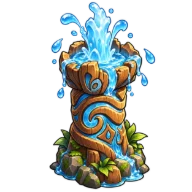
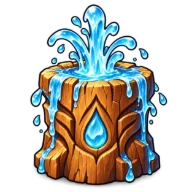
샘 토템을 판 위 물건으로: 스킬 아이콘과 같은 그림, 칸 가운데 이름·체력 뒤 (#157)
* 샘 토템을 판 위 물건으로: 스킬 아이콘과 같은 그림, 사람 칸은 직업 아이콘 자리

- board-totem-spring을 스킬 아이콘(나무 그루터기 분수)과 같은 토템으로 다시 그림 (Codex, 192px)
- 새 층 standL: 이름·체력·배지 위, 말풍선·떠오르는 숫자·스킬 이펙트 아래. 서 있는 동안만, 끝나기 2초 전 깜빡임, 세울 때 솟아오름
- 사람이 선 칸은 직업 아이콘 자리에 토템 (이름·체력을 가리지 않음). 디버프 배지가 그 자리를 쓰면 배지 옆 · 작은 칸은 체력 옆, 빈 칸은 크게
- 작은 칸 조준 표식은 디버프 배지 때처럼 토템 옆으로
- 칸 바닥의 돌 토템 그림(ui-class-board-totem-spring)은 판에서 안 씀, 바닥 색은 그대로

* 샘 토템: 칸 가운데 고정, 이름·체력 뒤 (직업 칸 색 위) 크게

Lim: 토템 위치는 고정, 이름 및 체력 뒤로 (직업 칸 색 위에) 가운데 크게, 캐릭터가 이동해도 그 자리.
- standL을 파티원 칸 채움(unitsG) 바로 위로 옮김: 직업 아이콘·이름·체력·배지·이펙트가 그 위
- 토템은 늘 그 칸 가운데 (사람 위치를 따라가지 않음), 칸 안에 꽉 차게 (그림 한 변 1.5r)
- 직업 아이콘 자리 · 빈자리 찾기 · 조준 표식 옮기기는 되돌림

---------

diff --git a/src/battle/board.ts b/src/battle/board.ts
@@ -62,6 +62,8 @@ const cv = $('board') as HTMLCanvasElement;
 const root = new Container();
 const cellsG = new Graphics();
 const unitsG = new Graphics();
+/** 칸 위에 선 물건 (주술사 샘 토템, 2026-10-16 Lim): 칸 가운데 고정, 파티원 칸 채움 (직업 색) 위 · 직업 아이콘 · 이름 · 체력 · 배지 · 이펙트 아래 */
+const standL = new Container();
 const glowL = new Container();
 const fxG = new Graphics();
 const frameL = new Container();
@@ -84,7 +86,7 @@ const markL = new Container();
 /** 말풍선 그림 (43 5장): 틀 뒤 이펙트 띠 · 틀 9조각 · 꼬리·감정 아이콘·앞 이펙트 띠. 대사 글자(topL)는 그 위 */
 const bubbleL = new Container(), bubbleBackL = new Container(), sliceL = new Container(), bubbleFrontL = new Container();
 bubbleL.addChild(bubbleBackL, sliceL, bubbleFrontL);
-root.addChild(cellsG, decalL, unitsG, glowL, fxG, fxArtL, frameL, overG, markL, emblemL, labelsL, badgeG, badgeL, topG, bubbleL, topL, lensL, pxfL);
+root.addChild(cellsG, decalL, unitsG, standL, glowL, fxG, fxArtL, frameL, overG, markL, emblemL, labelsL, badgeG, badgeL, topG, bubbleL, topL, lensL, pxfL);
 
 let dpr = 1;
 /** 판 그림 좌표 (Pixi root 안). k = 그림 → 화면 배율: 보통 1, 「레이드 판 5인 던전 모양」이면 1보다 작음 (화면 좌표 = 그림 좌표 × k) */
@@ -495,7 +497,7 @@ class SpritePool {
   }
   end(): void { for (let i = this.used; i < this.list.length; i++) this.list[i].visible = false; }
 }
-const decals = new SpritePool(decalL), fxArt = new SpritePool(fxArtL), marks = new SpritePool(markL), pxfArt = new SpritePool(pxfL), bubbleBack = new SpritePool(bubbleBackL), bubbleFront = new SpritePool(bubbleFrontL);
+const decals = new SpritePool(decalL), fxArt = new SpritePool(fxArtL), marks = new SpritePool(markL), stands = new SpritePool(standL), pxfArt = new SpritePool(pxfL), bubbleBack = new SpritePool(bubbleBackL), bubbleFront = new SpritePool(bubbleFrontL);
 /** 생명 사슬 띠 (fx-link-*): 가로로 이어 붙이는 그림을 두 칸 사이에 깔아 돌림 */
 const strips: TilingSprite[] = [];
 let stripUsed = 0;
@@ -1127,18 +1129,21 @@ export function lensAt(idx: number, now: number): void { B2.lens = { idx, t0: no
 const HOT_COLOR: Record<string, number> = { sprout: 0x7bc67e, growth: 0xb7e07a, wildflower: 0xe59ac0, oath: 0xf0c46a, bloom: 0xf3c7d6, lightWave: 0xffe7a3, droplet: 0x7ec8f0, wanderMist: 0x6fd0b0, starMark: 0xe8b04a };
 /**
  * 판 위 물건 (79 6-1, engine/totems): 칸 바닥 색 · 그림 이름 (80 5장 board-*, 오기 전엔 바닥 색 + 안쪽 테두리). 범위 = 테두리를 그릴 거리
+ * stand = 바닥 무늬가 아니라 칸 위에 선 물건 (standL): 사람이 서 있어도 그 칸 가운데에 크게, 이름 · 체력 뒤. 샘 토템 = 스킬 아이콘과 같은 나무 그루터기 분수 (2026-10-16)
  */
-const TOTEM_LOOK: Record<TotemKind, { color: number; art: string; label: string }> = {
-  spring: { color: 0x7ec8f0, art: 'ui-class-board-totem-spring', label: '샘' },
+const TOTEM_LOOK: Record<TotemKind, { color: number; art: string; label: string; stand?: boolean }> = {
+  spring: { color: 0x7ec8f0, art: 'board-totem-spring', label: '샘', stand: true },
   earth: { color: 0xc49a62, art: 'ui-class-board-totem-earth', label: '대지' },
   sea: { color: 0x4fa8e0, art: 'board-sea-spring', label: '바다' },
   mist: { color: 0x6fd0b0, art: 'board-mist-pool', label: '안개' },
   citadel: { color: 0xe6d3a0, art: 'board-citadel', label: '성채' },
   nova: { color: 0xd19a5e, art: 'board-supernova', label: '별' },
 };
+/** 선 물건 그림 한 변 (칸 반지름 배) · 그 안에서 그려진 부분 (폭 · 높이 비율, board-totem-spring 납품본을 잼): 그려진 부분이 칸 안에 꽉 차게 */
+const STAND_SIZE = 1.5, STAND_W = 0.72, STAND_H = 0.95;
 /** 힐러 직업 4종 판 위 그림 (80 5장): 전투 시작 때 그 직업 것만 미리 읽음 (첫 토템 · 인장부터 보이게) */
 const HERO_BOARD_ART: Partial<Record<HeroKey, string[]>> = {
-  shaman: ['ui-class-board-totem-spring', 'ui-class-board-totem-earth', 'board-totem-rain', 'board-sea-spring'],
+  shaman: ['board-totem-spring', 'ui-class-board-totem-earth', 'board-totem-rain', 'board-sea-spring'],
   monk: ['board-mist', 'board-mist-pool'],
   astrologer: ['board-star', 'board-star-mark', 'board-star-sleep', 'board-supernova'],
   warder: ['board-seal', 'board-barrier', 'board-citadel'],
@@ -1306,7 +1311,7 @@ export function render(now: number): void {
   const typography = cellTypography(s), compact = typography.compact;
   const rdt = Math.min(0.1, Math.max(0, (now - (B2.lastRender || now)) / 1000)); B2.lastRender = now;
   for (const g of [cellsG, unitsG, fxG, overG, badgeG, topG]) g.clear();
-  labels.begin(); badgeLabels.begin(); tops.begin(); glowUsed = 0; hexFramesUsed = 0; decorationBounds.length = 0; decals.begin(); fxArt.begin(); marks.begin(); pxfArt.begin(); stripUsed = 0;
+  labels.begin(); badgeLabels.begin(); tops.begin(); glowUsed = 0; hexFramesUsed = 0; decorationBounds.length = 0; decals.begin(); fxArt.begin(); marks.begin(); stands.begin(); pxfArt.begin(); stripUsed = 0;
   bubbleBack.begin(); bubbleFront.begin(); sliceUsed = 0;
   telsSeen = F.tels.slice(); // 다음 impact 사건이 어느 기술인지 (fxImpact)
   const fs = (k: number, min: number) => Math.max(min, s * k);
@@ -1396,7 +1401,13 @@ export function render(now: number): void {
     for (const tm of F.totems) if (tm.cell === i) {
       const look = TOTEM_LOOK[tm.kind], end = tm.until - F.t < 2, tex = artTexture(look.art);
       hexPoly(cellsG, p.x, p.y, r).fill({ color: look.color, alpha: end ? 0.08 + 0.14 * pulse : 0.22 });
-      if (tex) decals.put(tex, p.x, p.y, cellArt, cellArt, end ? 0.5 + 0.5 * pulse : 1);
+      if (tex && look.stand) {
+        // 선 물건 (2026-10-16 Lim 「토템 위치는 고정, 이름 · 체력 뒤 직업 칸 색 위에 가운데 크게, 캐릭터가 이동해도 그 자리」): 칸 가운데, 세울 때 0.25초 솟아오름 (바닥 기준)
+        const rise = S.reducedEffects ? 1 : Math.min(1, Math.max(0, (F.t - tm.at) / 0.25)), k = 0.6 + 0.4 * (1 - (1 - rise) ** 2);
+        const size = r * STAND_SIZE, half = (size * STAND_H) / 2, q = fitCenter(p.x, p.y, (size * STAND_W) / 2, half);
+        stands.put(tex, q.x, q.y + half * (1 - k), size * k, size * k, end ? 0.5 + 0.5 * pulse : 1);
+        recordBound(`stand-${tm.kind}${i}`, 'stand', 'rect', q.x, q.y, size * STAND_W, size * STAND_H, { diameter: size });
+      } else if (tex) decals.put(tex, p.x, p.y, cellArt, cellArt, end ? 0.5 + 0.5 * pulse : 1);
       else hexPoly(cellsG, p.x, p.y, r * 0.62).stroke({ width: 2.5, color: look.color, alpha: 0.9 });
     }
     // 사제 쉼터 (특성): 금빛 바닥 + 안쪽 테두리, 끝나기 2초 전 깜빡임
@@ -2143,7 +2154,7 @@ export function render(now: number): void {
   for (let i = glowUsed; i < glows.length; i++) glows[i].visible = false;
   for (let i = hexFramesUsed; i < hexFrames.length; i++) hexFrames[i].visible = false;
   for (let i = sliceUsed; i < slices.length; i++) slices[i].visible = false;
-  labels.end(); badgeLabels.end(); tops.end(); decals.end(); fxArt.end(); marks.end(); pxfArt.end(); bubbleBack.end(); bubbleFront.end();
+  labels.end(); badgeLabels.end(); tops.end(); decals.end(); fxArt.end(); marks.end(); stands.end(); pxfArt.end(); bubbleBack.end(); bubbleFront.end();
   for (let i = stripUsed; i < strips.length; i++) strips[i].visible = false;
   lensL.visible = false;
   app.renderer.render(app.stage);
